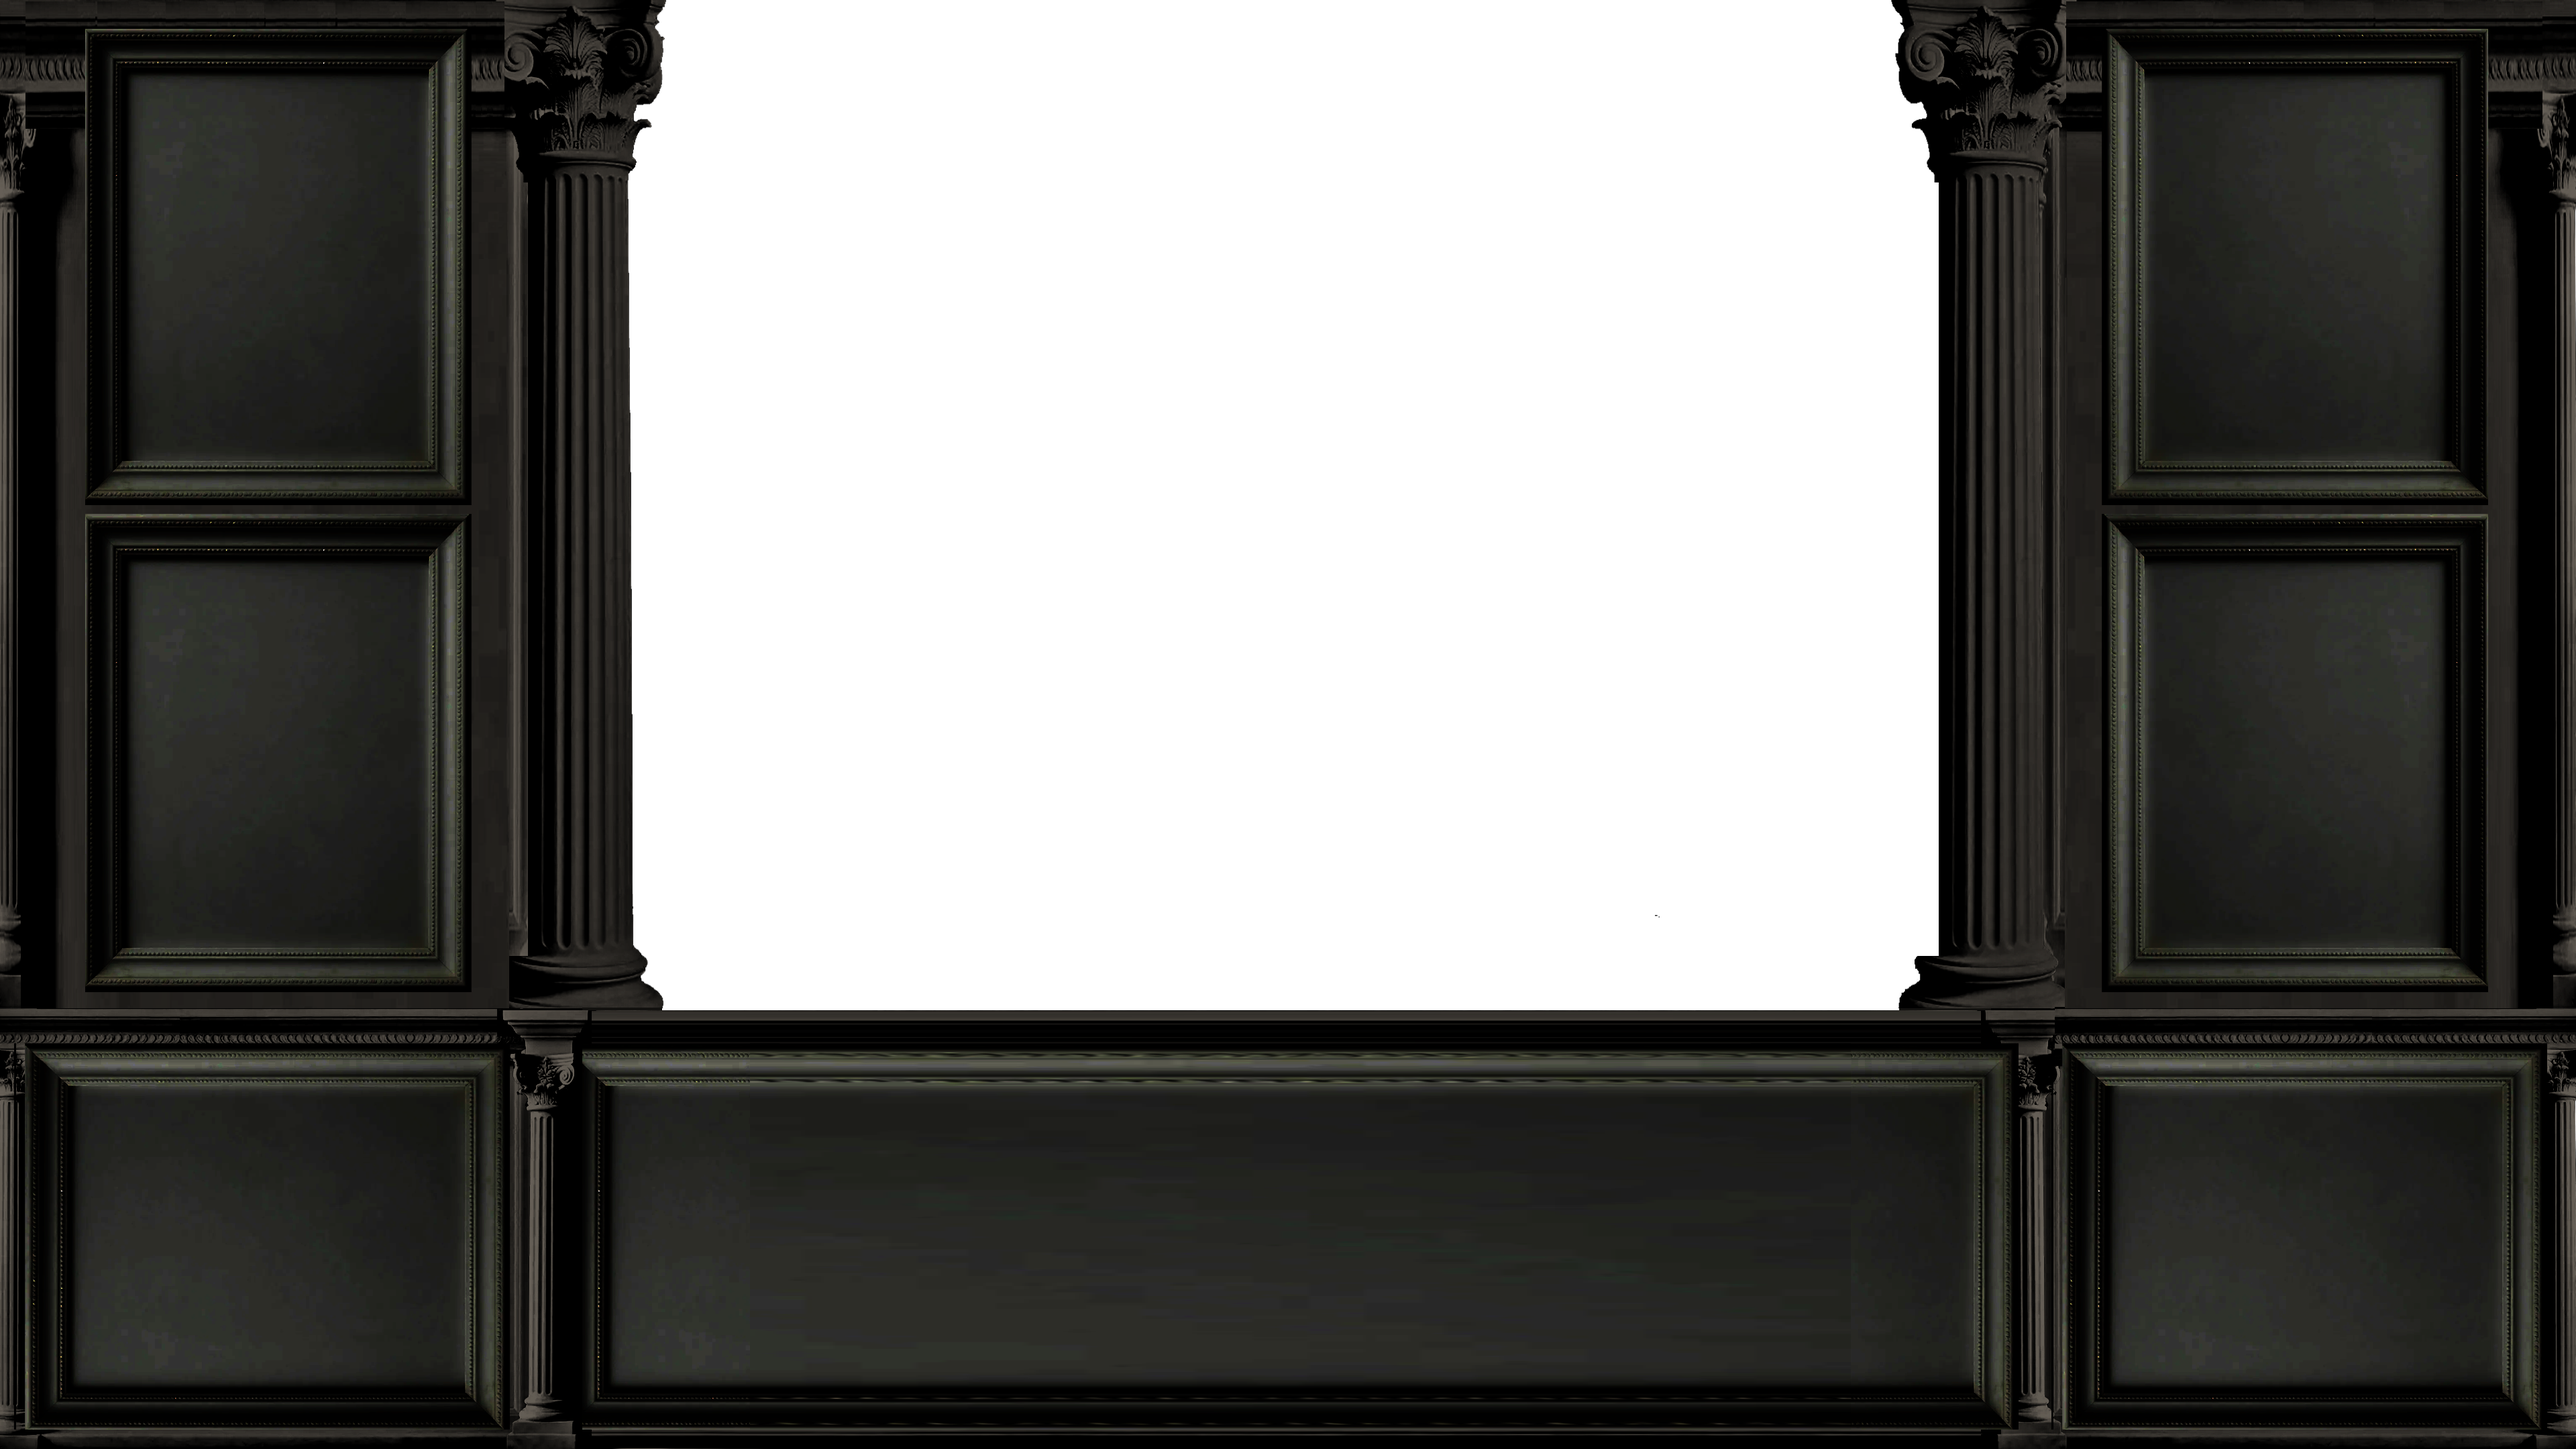
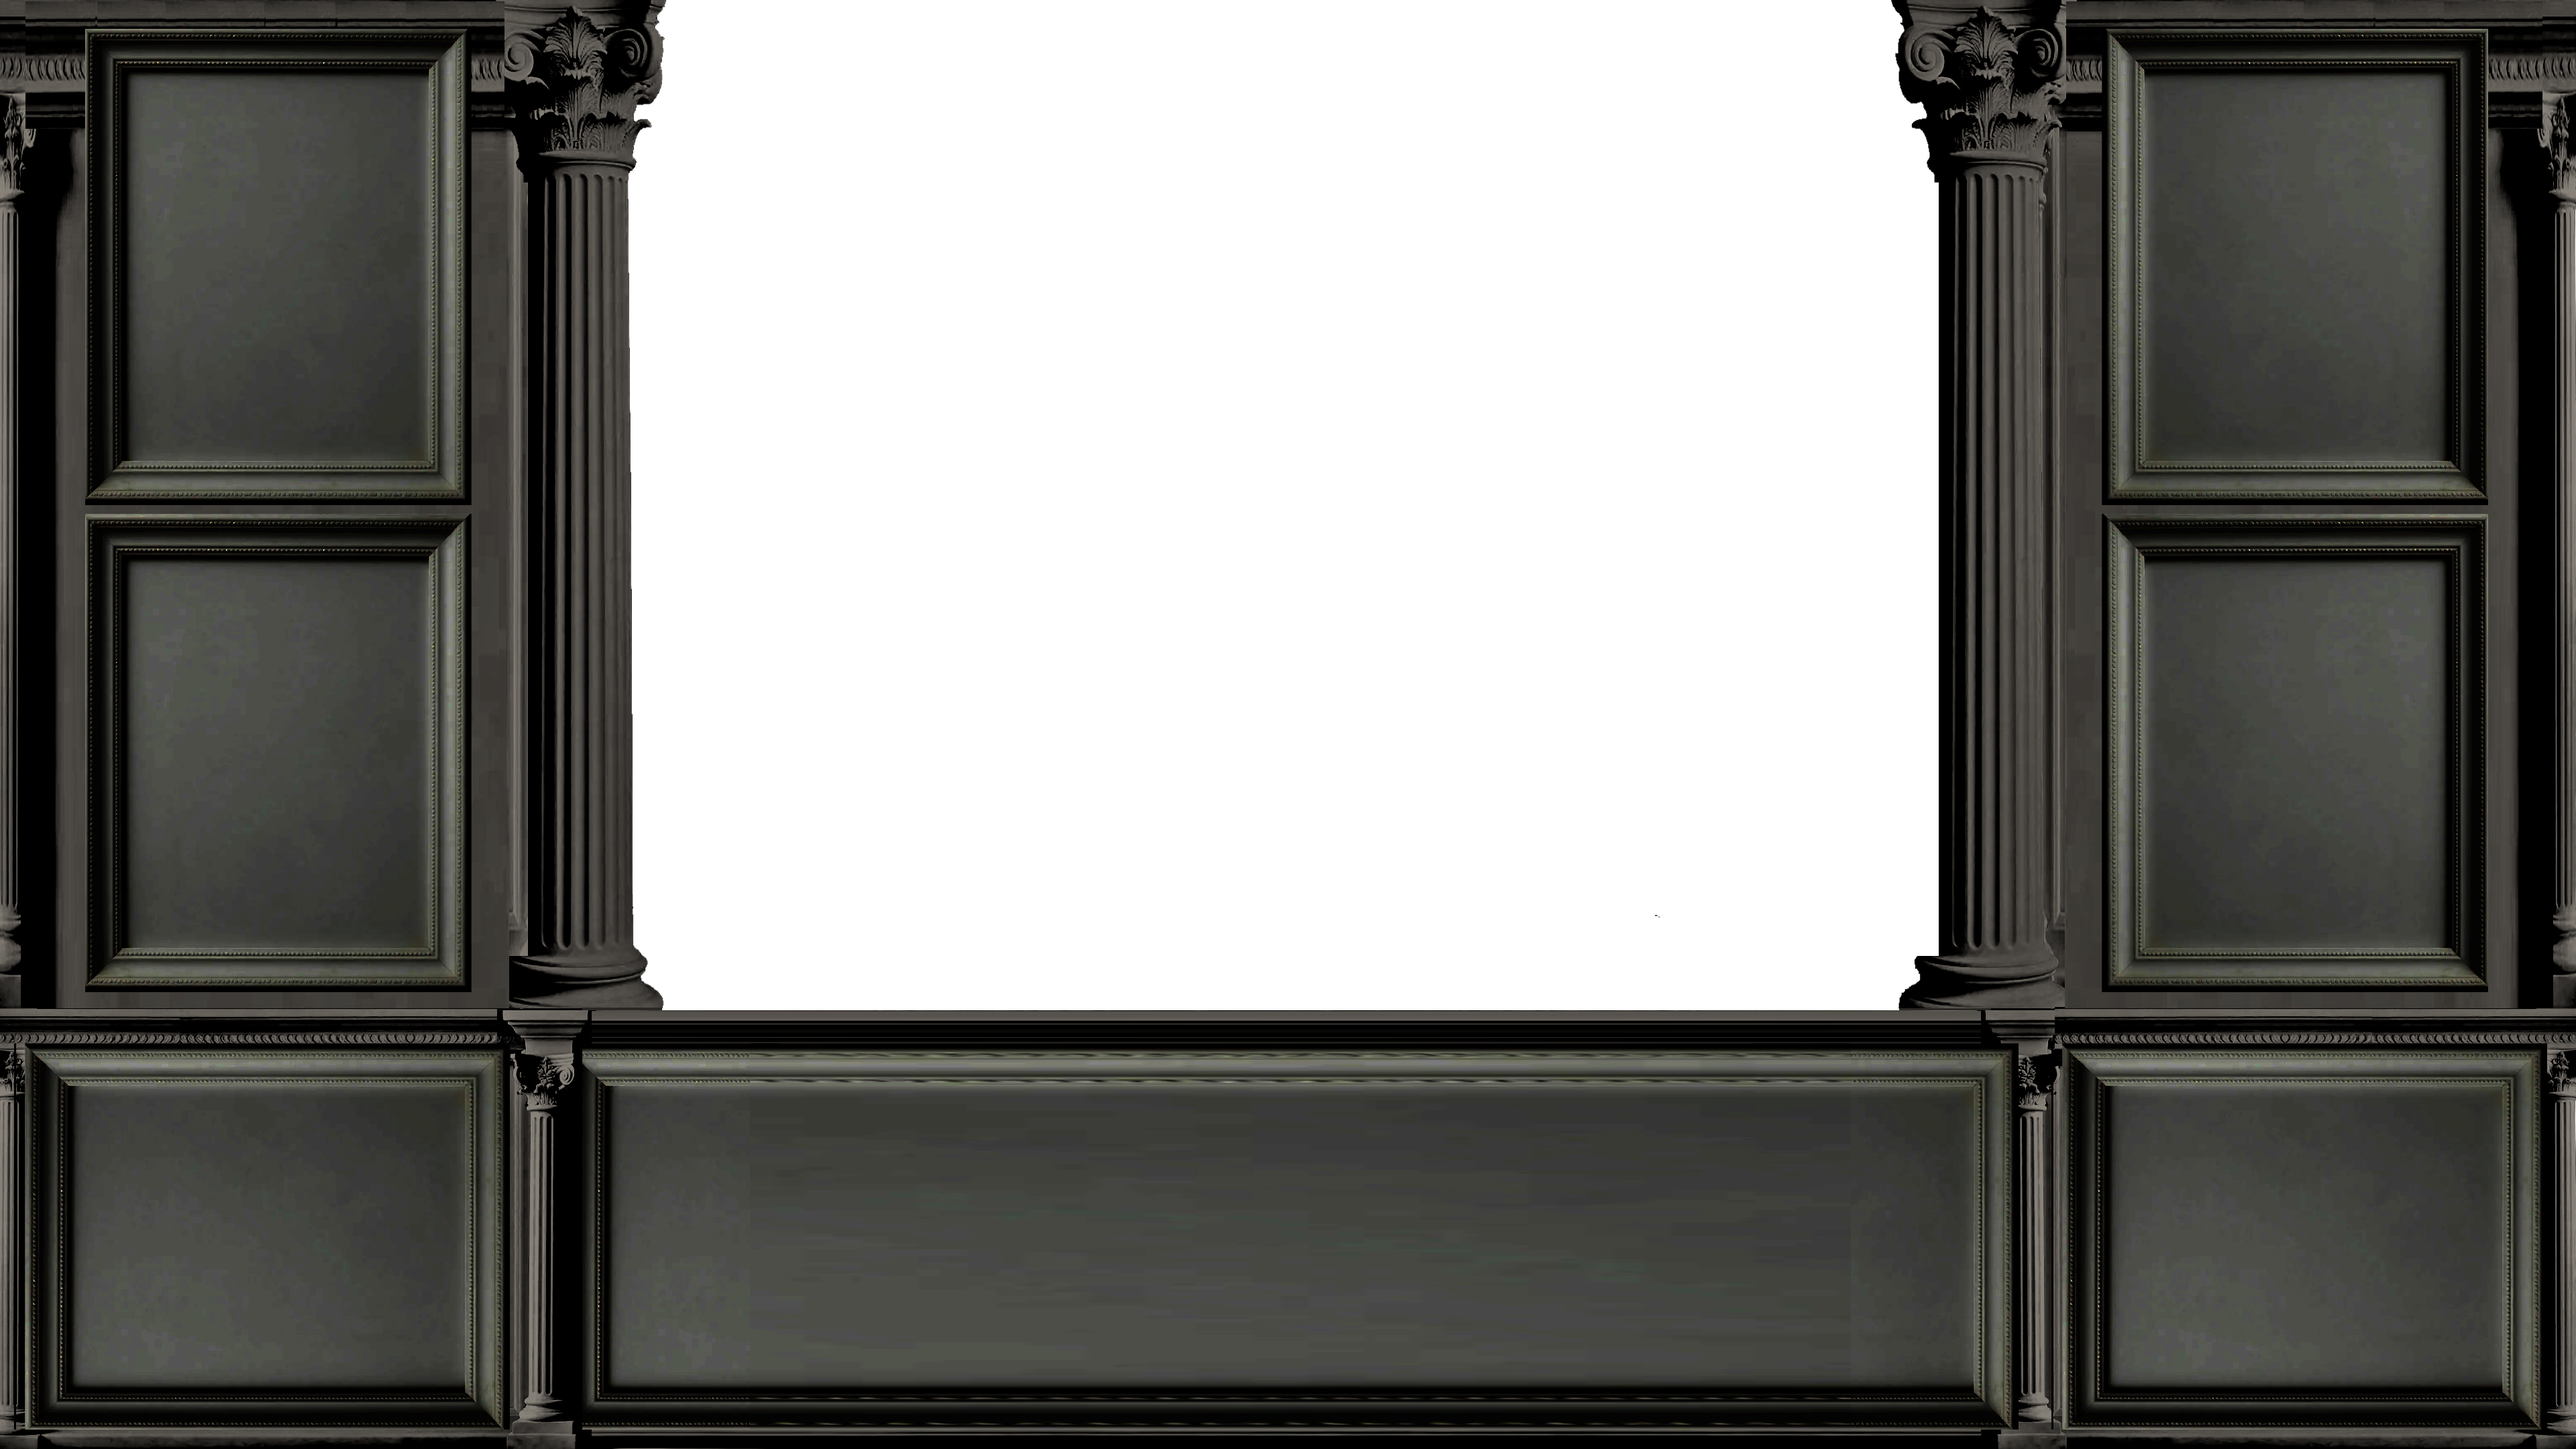
Adjusted brightness of HUD and removed border red lines

diff --git a/web/src/ui/hud/HudLayout.module.css b/web/src/ui/hud/HudLayout.module.css
@@ -15,6 +15,12 @@
   padding: 12px;
 }
 
+/* Safety: strip any leftover debug borders/outlines on HUD layout containers. */
+.root section {
+  border: none !important;
+  outline: none !important;
+}
+
 /* Bottom band only: shift fr from outer rails into the center so inventory is wider between map and nav. */
 .bottomRow {
   grid-area: bottomRow;
@@ -45,11 +51,11 @@
   position: absolute;
 }
 
-/* DEBUG: widget bounds — remove border when done tuning layout */
 .panel {
   z-index: 1;
   background: transparent;
-  border: 2px solid rgb(255, 0, 0);
+  border: none !important;
+  outline: none !important;
   box-shadow: none;
   backdrop-filter: none;
   border-radius: 0;
